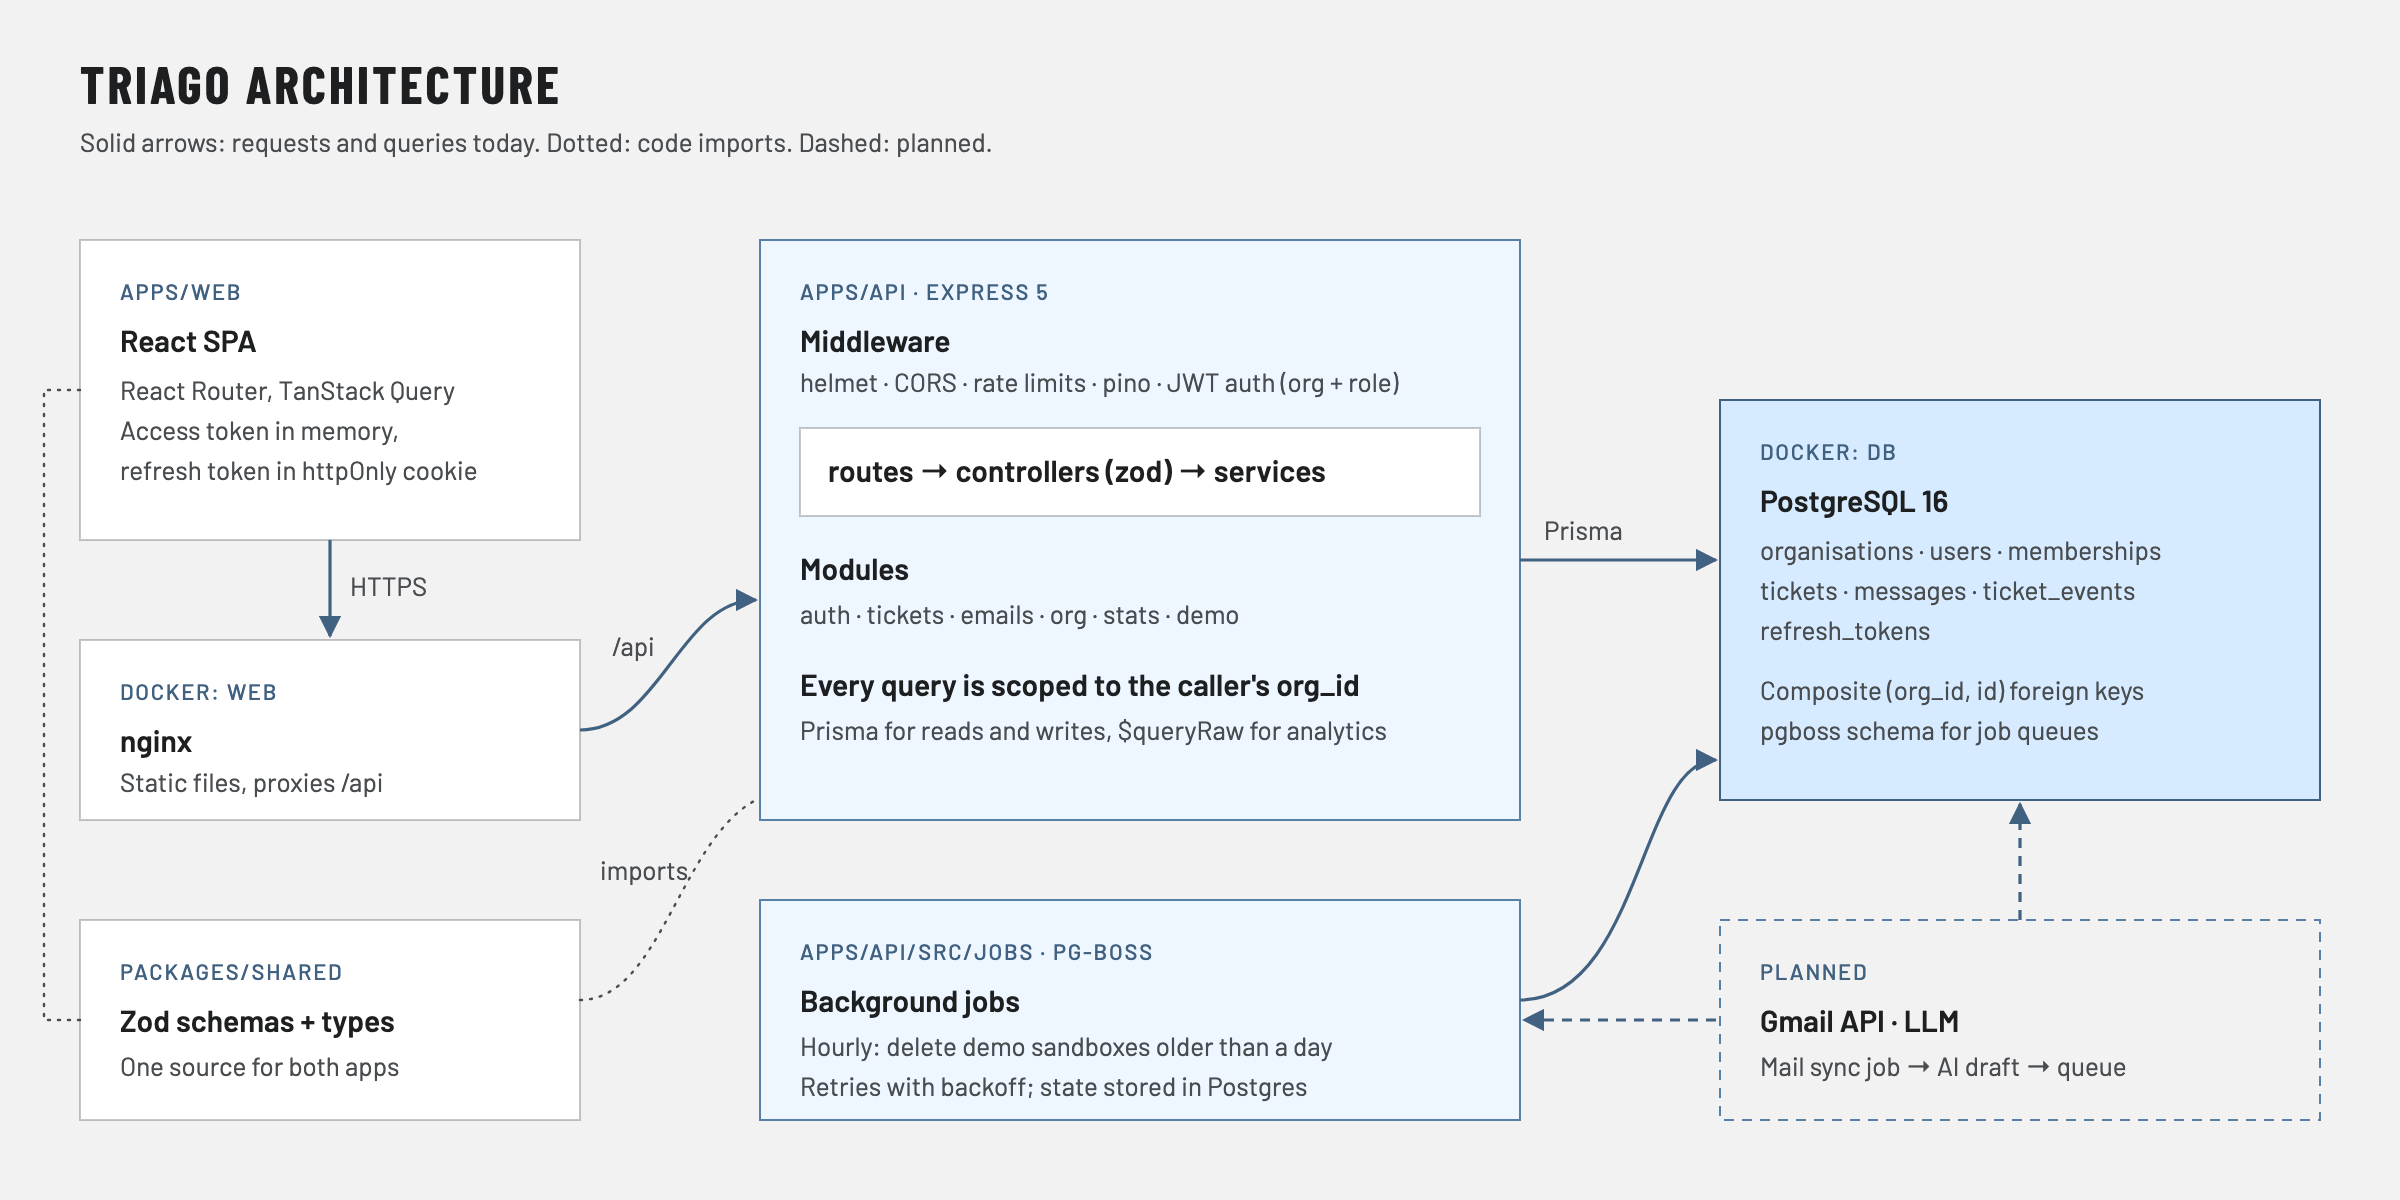
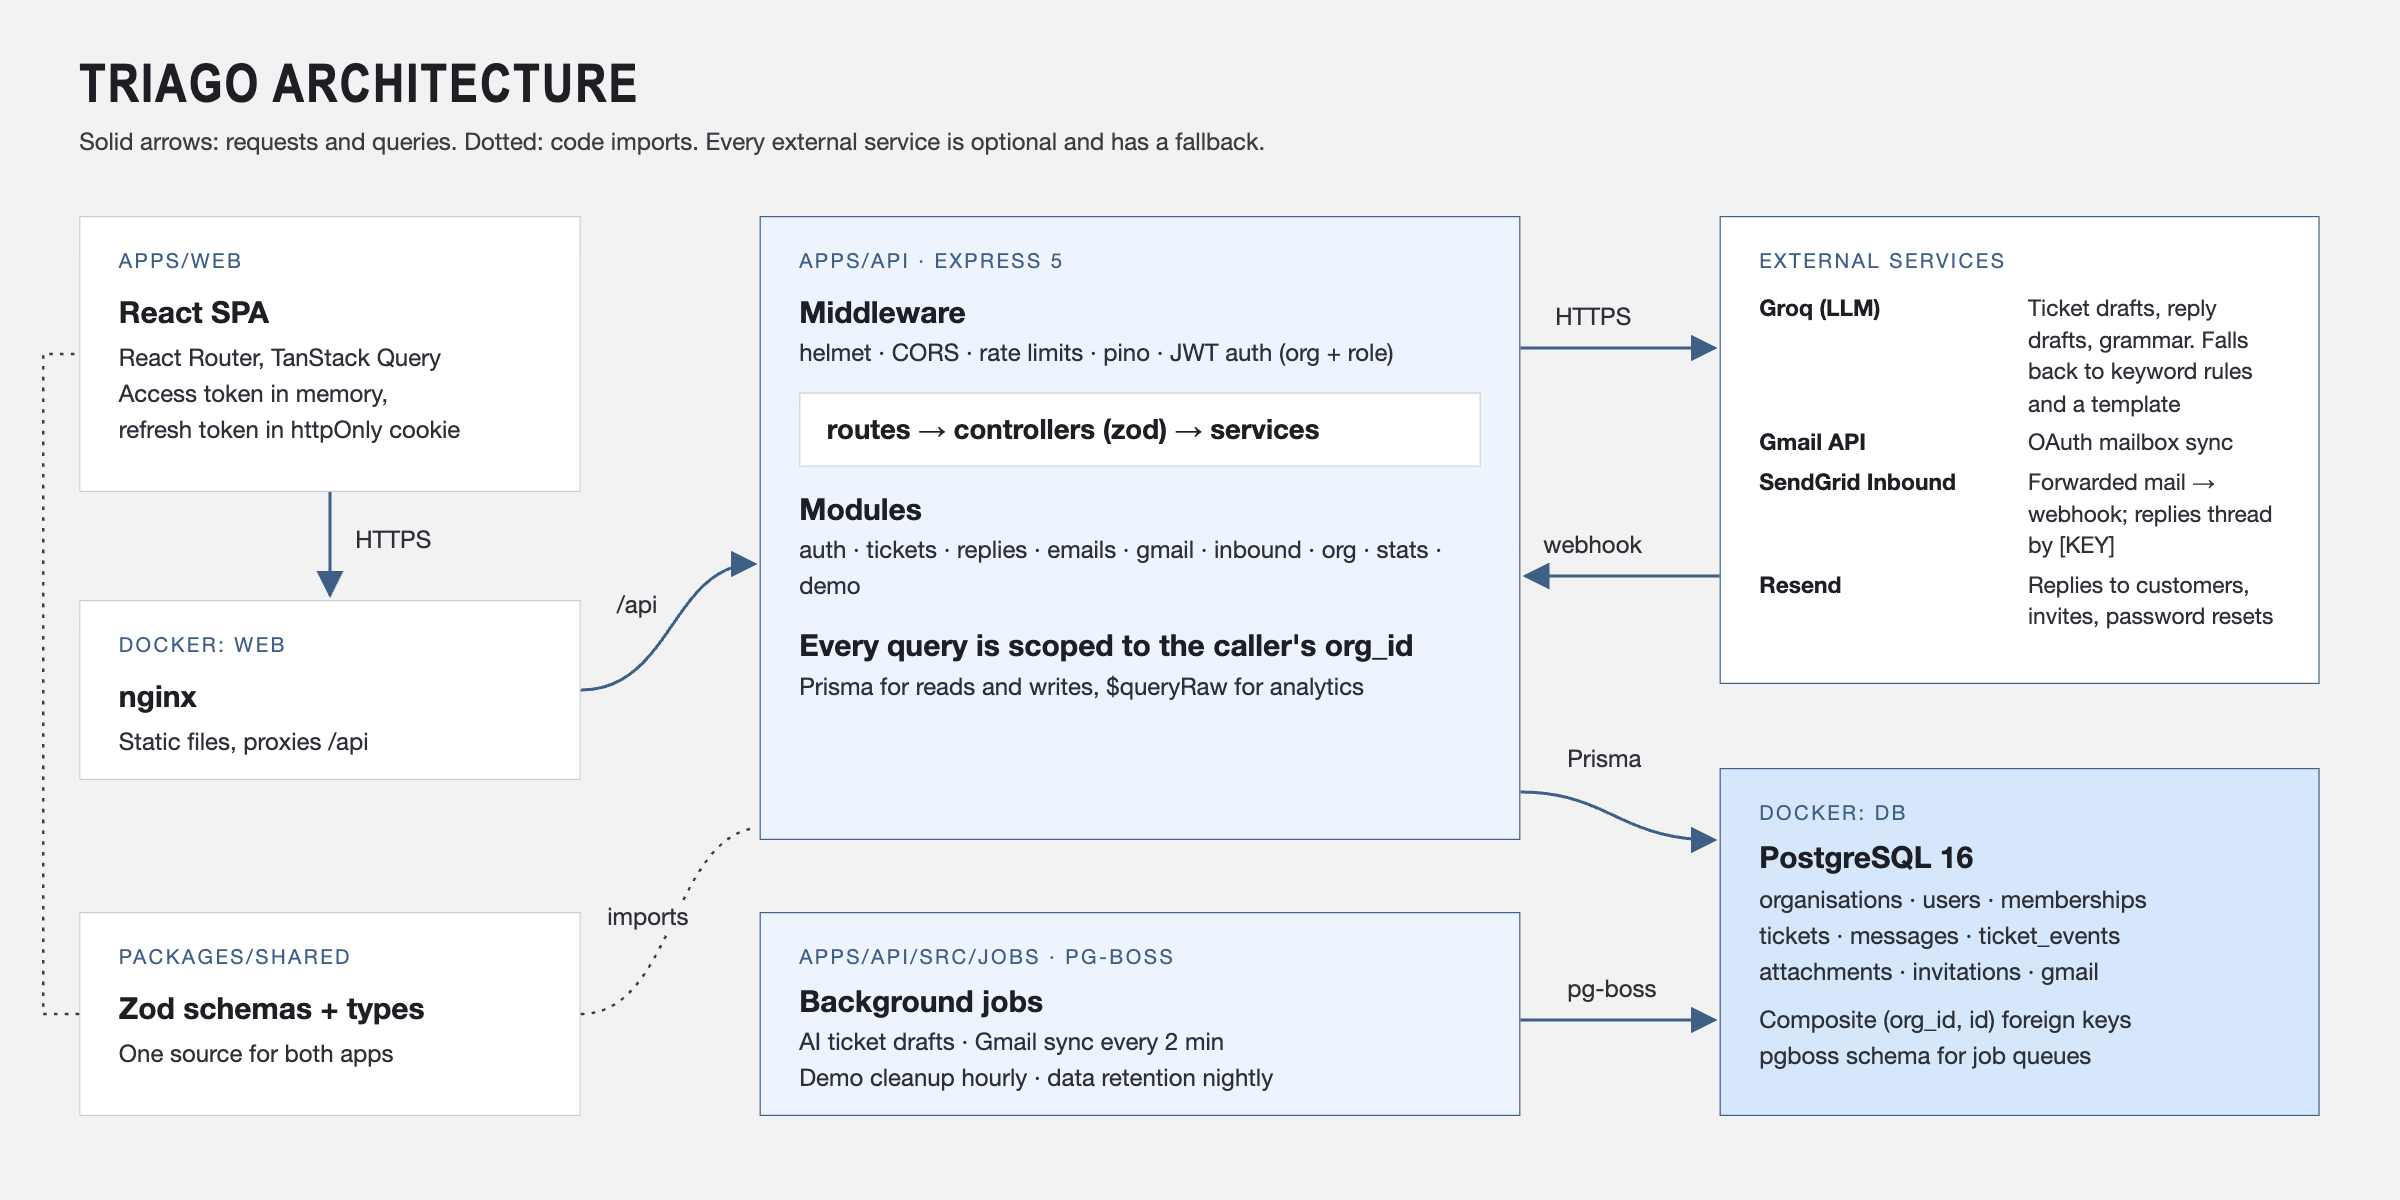
Update README and architecture diagram for replies and threading

diff --git a/docs/architecture.html b/docs/architecture.html
@@ -1,0 +1,220 @@
+<!doctype html>
+<html>
+  <head>
+    <meta charset="utf-8" />
+    <style>
+      * {
+        box-sizing: border-box;
+      }
+      html,
+      body {
+        margin: 0;
+      }
+      body {
+        width: 2000px;
+        height: 1000px;
+        position: relative;
+        overflow: hidden;
+        background: #f2f2f2;
+        color: #1d1f24;
+        font-family: 'IBM Plex Sans', 'Inter', 'Helvetica Neue', Arial, sans-serif;
+      }
+      h1 {
+        position: absolute;
+        left: 66px;
+        top: 44px;
+        margin: 0;
+        font-family: 'Barlow Condensed', 'Arial Narrow', 'Helvetica Neue', Arial, sans-serif;
+        font-stretch: condensed;
+        font-weight: 800;
+        font-size: 44px;
+        letter-spacing: 0.04em;
+      }
+      .sub {
+        position: absolute;
+        left: 66px;
+        top: 106px;
+        font-size: 20px;
+        color: #3a3d44;
+      }
+      .box {
+        position: absolute;
+        padding: 26px 32px;
+        border: 1.5px solid #c9ccd2;
+        background: #fff;
+      }
+      .box.app {
+        background: #edf4fd;
+        border-color: #3f5f86;
+      }
+      .box.db {
+        background: #d6e7fb;
+        border-color: #3f5f86;
+      }
+      .box.ext {
+        background: #fff;
+        border-color: #3f5f86;
+      }
+      .kicker {
+        font-size: 17px;
+        letter-spacing: 0.12em;
+        color: #3f5f86;
+        text-transform: uppercase;
+      }
+      .title {
+        margin-top: 18px;
+        font-size: 25px;
+        font-weight: 700;
+      }
+      .line {
+        margin-top: 8px;
+        font-size: 20px;
+        line-height: 1.5;
+        color: #2d3038;
+      }
+      .inner {
+        margin: 18px 0 4px;
+        padding: 16px 22px;
+        border: 1.5px solid #c9ccd2;
+        background: #fff;
+        font-size: 23px;
+        font-weight: 700;
+      }
+      .svc {
+        display: grid;
+        grid-template-columns: 210px 1fr;
+        gap: 6px 14px;
+        margin-top: 16px;
+        font-size: 19px;
+        line-height: 1.4;
+      }
+      .svc b {
+        font-weight: 700;
+      }
+      .svc span {
+        color: #2d3038;
+      }
+      .label {
+        position: absolute;
+        font-size: 20px;
+        color: #2d3038;
+        background: #f2f2f2;
+        padding: 0 6px;
+      }
+      svg {
+        position: absolute;
+        inset: 0;
+      }
+    </style>
+  </head>
+  <body>
+    <h1>TRIAGO ARCHITECTURE</h1>
+    <div class="sub">
+      Solid arrows: requests and queries. Dotted: code imports. Every external service is optional and has a fallback.
+    </div>
+
+    <!-- Column 1 -->
+    <div class="box" style="left: 66px; top: 180px; width: 418px; height: 230px">
+      <div class="kicker">apps/web</div>
+      <div class="title">React SPA</div>
+      <div class="line">
+        React Router, TanStack Query<br />Access token in memory,<br />refresh token in httpOnly cookie
+      </div>
+    </div>
+    <div class="box" style="left: 66px; top: 500px; width: 418px; height: 150px">
+      <div class="kicker">Docker: web</div>
+      <div class="title">nginx</div>
+      <div class="line">Static files, proxies /api</div>
+    </div>
+    <div class="box" style="left: 66px; top: 760px; width: 418px; height: 170px">
+      <div class="kicker">packages/shared</div>
+      <div class="title">Zod schemas + types</div>
+      <div class="line">One source for both apps</div>
+    </div>
+
+    <!-- Column 2 -->
+    <div class="box app" style="left: 633px; top: 180px; width: 634px; height: 520px">
+      <div class="kicker">apps/api · Express 5</div>
+      <div class="title">Middleware</div>
+      <div class="line" style="margin-top: 4px">helmet · CORS · rate limits · pino · JWT auth (org + role)</div>
+      <div class="inner">routes → controllers (zod) → services</div>
+      <div class="title" style="margin-top: 20px">Modules</div>
+      <div class="line" style="margin-top: 4px">
+        auth · tickets · replies · emails · gmail · inbound · org · stats · demo
+      </div>
+      <div class="title" style="margin-top: 20px">Every query is scoped to the caller's org_id</div>
+      <div class="line" style="margin-top: 4px">Prisma for reads and writes, $queryRaw for analytics</div>
+    </div>
+    <div class="box app" style="left: 633px; top: 760px; width: 634px; height: 170px">
+      <div class="kicker">apps/api/src/jobs · pg-boss</div>
+      <div class="title" style="margin-top: 12px">Background jobs</div>
+      <div class="line" style="margin-top: 4px">
+        AI ticket drafts · Gmail sync every 2 min<br />Demo cleanup hourly · data retention nightly
+      </div>
+    </div>
+
+    <!-- Column 3 -->
+    <div class="box ext" style="left: 1433px; top: 180px; width: 500px; height: 390px">
+      <div class="kicker">External services</div>
+      <div class="svc">
+        <b>Groq (LLM)</b><span>Ticket drafts, reply drafts, grammar. Falls back to keyword rules and a template</span>
+        <b>Gmail API</b><span>OAuth mailbox sync</span> <b>SendGrid Inbound</b
+        ><span>Forwarded mail → webhook; replies thread by [KEY]</span> <b>Resend</b
+        ><span>Replies to customers, invites, password resets</span>
+      </div>
+    </div>
+    <div class="box db" style="left: 1433px; top: 640px; width: 500px; height: 290px">
+      <div class="kicker">Docker: db</div>
+      <div class="title" style="margin-top: 12px">PostgreSQL 16</div>
+      <div class="line" style="margin-top: 6px">
+        organisations · users · memberships<br />tickets · messages · ticket_events<br />attachments · invitations ·
+        gmail
+      </div>
+      <div class="line" style="margin-top: 10px">
+        Composite (org_id, id) foreign keys<br />pgboss schema for job queues
+      </div>
+    </div>
+
+    <svg width="2000" height="1000" viewBox="0 0 2000 1000">
+      <defs>
+        <marker
+          id="a"
+          viewBox="0 0 10 10"
+          refX="9"
+          refY="5"
+          markerWidth="9"
+          markerHeight="9"
+          orient="auto-start-reverse"
+        >
+          <path d="M0 0 10 5 0 10z" fill="#3f5f86" />
+        </marker>
+      </defs>
+      <g fill="none" stroke="#3f5f86" stroke-width="2.5">
+        <!-- web → nginx -->
+        <path d="M275 410 V496" marker-end="url(#a)" />
+        <!-- nginx → api -->
+        <path d="M484 575 C 560 575, 560 470, 629 470" marker-end="url(#a)" />
+        <!-- api → external services (calls out) -->
+        <path d="M1267 290 H1429" marker-end="url(#a)" />
+        <!-- inbound webhook → api -->
+        <path d="M1433 480 H1271" marker-end="url(#a)" />
+        <!-- api → db -->
+        <path d="M1267 660 C 1340 660, 1350 700, 1429 700" marker-end="url(#a)" />
+        <!-- jobs → db -->
+        <path d="M1267 850 H1429" marker-end="url(#a)" />
+      </g>
+      <g fill="none" stroke="#3a3d44" stroke-width="2" stroke-dasharray="3 6">
+        <!-- shared imported by web and api -->
+        <path d="M66 845 H36 V295 H66" />
+        <path d="M484 845 C 560 845, 560 700, 629 690" />
+      </g>
+    </svg>
+    <div class="label" style="left: 290px; top: 438px">HTTPS</div>
+    <div class="label" style="left: 508px; top: 492px">/api</div>
+    <div class="label" style="left: 1290px; top: 252px">HTTPS</div>
+    <div class="label" style="left: 1280px; top: 442px">webhook</div>
+    <div class="label" style="left: 1300px; top: 620px">Prisma</div>
+    <div class="label" style="left: 1300px; top: 812px">pg-boss</div>
+    <div class="label" style="left: 500px; top: 752px">imports</div>
+  </body>
+</html>

diff --git a/README.md b/README.md
@@ -16,7 +16,7 @@ A full-stack help desk that turns support emails into tickets. An AI model draft
 - **AI drafts, people decide:** the AI suggests title, summary, category and priority; an agent accepts, edits or dismisses the draft.
 - **Works without the AI:** keyword rules draft the ticket when the model is slow, down, or returns something unusable.
 - **Tickets:** create, edit, assign, change status and priority, delete (admins only), attachments, links, internal notes and an activity log.
-- **Reply to customers:** agents email the requester from the ticket. Replies thread under the customer's original email, and their answer comes back to the inbound address. If the email can't be sent, nothing is saved and the agent is told.
+- **Customer conversation:** the ticket shows the whole email thread. When the customer is waiting, the AI drafts the next reply and the agent chooses **Approve and send**, **Edit** or **Discard**. Replies thread under the customer's email, and the customer's answer lands back on the same ticket (matched by the `[KEY]` in the subject and the sender), reopening it if it was on hold or closed. If an email can't be sent, nothing is saved and the agent is told.
 - **Search and filters:** search by title, summary and requester; filter by status, priority, assignee and date received.
 - **Teams and roles:** admins and agents, email invitations, password reset; one person can belong to several organisations.
 - **Dashboard:** your tickets and team statistics.
@@ -30,7 +30,7 @@ A full-stack help desk that turns support emails into tickets. An AI model draft
 | Frontend | React 18, TypeScript, Vite, React Router, TanStack Query   |
 | Backend  | Node.js, Express 5, Zod, pino, pg-boss (background jobs)   |
 | Database | PostgreSQL 16, Prisma                                      |
-| AI       | Groq API (Llama 3.3), JSON output validated with Zod       |
+| AI       | Groq API (gpt-oss-120b), JSON output validated with Zod    |
 | Infra    | Docker Compose, nginx, GitHub Actions                      |
 | Tests    | Vitest, Testing Library, Supertest against a real Postgres |
 
@@ -52,11 +52,13 @@ A full-stack help desk that turns support emails into tickets. An AI model draft
 3. A ticket is created immediately with keyword-rule values, marked as "drafting".
 4. A job sends a trimmed copy of the email (no quoted history, signature or footer) to the AI model.
 5. If the model returns a valid draft, the ticket is updated. If it times out, errors or returns invalid JSON, the ticket keeps the keyword values and is flagged `ai_failed` for manual triage.
-6. An agent reviews the draft in the queue and accepts or dismisses it, then works the ticket and replies to the customer from it.
+6. An agent reviews the draft in the queue and accepts or dismisses it.
+7. On the ticket, the AI drafts a reply from the thread; the agent approves, edits or discards it. The customer's answer comes back onto the same ticket.
 
 ## Key decisions
 
 - **Keyword rules as a fallback.** The AI is an outside service that can be slow, rate-limited or wrong. The ticket is saved before the AI is called, and simple keyword rules fill in category and priority, so an email is never lost and the app never waits on the model. Failures are flagged so a person checks those tickets.
+- **AI replies are drafts too.** The reply model is told to use only facts from the thread and never to promise refunds, fixes or timelines; the agent adds commitments. Nothing is emailed until a person clicks Approve and send. Without the model, a short template stands in.
 - **The AI drafts, an agent accepts.** Priority and category decide who sees a ticket and how fast. A wrong guess that went straight into the queue could bury an urgent customer. Keeping a person in the loop makes the AI a time-saver rather than a risk, and the model's confidence is shown to help the agent decide.
 - **A separate sandbox per demo visitor.** A shared demo account gets messy and lets one visitor see or break what another did. Each "Try the demo" click creates a private organisation with sample tickets, and an hourly job deletes sandboxes older than a day.
 - **One shared types package.** Request and response shapes are defined once as Zod schemas in `packages/shared`. The API uses them to validate input and the frontend uses the same types, so a change to the API that breaks the frontend fails the type check instead of failing in production.
